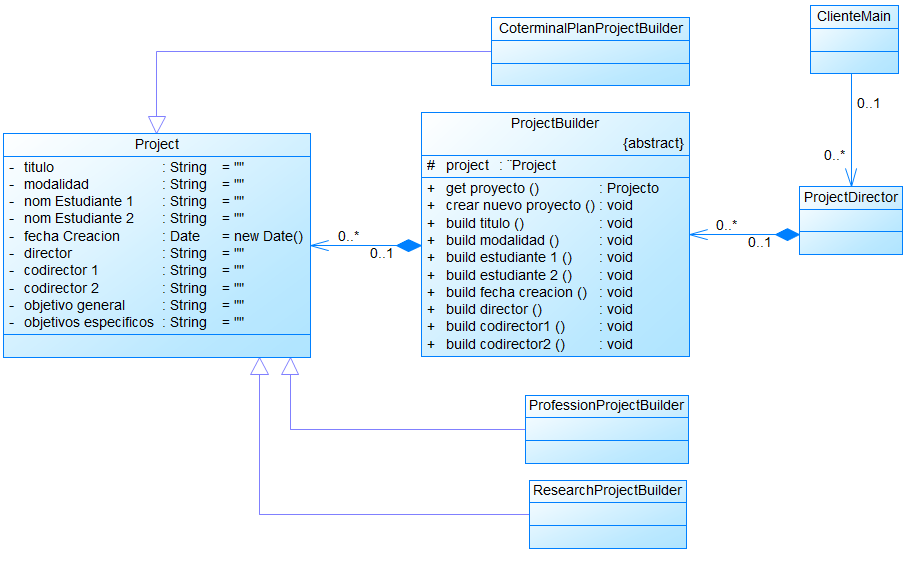
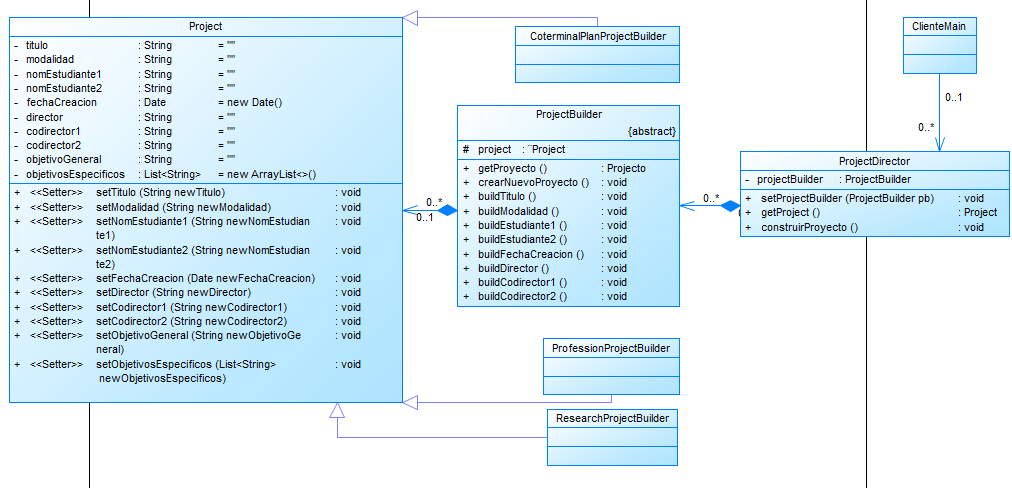
Se completo todas las funcionalidades,queda faltando solo las pruebas

diff --git a/CoterminalPlanProjectBuilder.java b/CoterminalPlanProjectBuilder.java
@@ -1,43 +1,44 @@
 /** ConcreteBuilder */
 import java.util.Date;
 class CoterminalPlanProjectBuilder extends ProjectBuilder{
-
     @Override
     public void buildTitulo() {
         project.setTitulo("Plan Coterminal en Inteligencia Artificial");
     }
+
     @Override
     public void buildModalidad() {
         project.setModalidad("Plan Coterminal");
     }
+
     @Override
     public void buildEstudiante1() {
         project.setNomEstudiante1("Estudiante D");
     }
+
     @Override
-    public void buildEstudiante2() {
-        // No aplica (solo un estudiante permitido)
-    }
+    public void buildEstudiante2() {}// No aplica (solo un estudiante permitido)
+
     @Override
     public void buildFechaCreacion() {
         project.setFechaCreacion(new Date());
     }
+
     @Override
     public void buildDirector() {
         project.setDirector("Dra. Ana Rodríguez");
     }
+
     @Override
-    public void buildCodirector1() {
-        // Opcional
-    }
+    public void buildCodirector1() {}// Opcional
     @Override
-    public void buildCodirector2() {
-        // Opcional
-    }
+    public void buildCodirector2() {}// Opcional
+
     @Override
     public void buildObjetivoGeneral() {
         project.setObjetivoGeneral("Fortalecer competencias avanzadas en Inteligencia Artificial.");
     }
+    
     @Override
     public void buildObjetivosEspecificos() {
         project.setObjetivosEspecificos("Estudiar algoritmos de Machine Learning");

diff --git a/ResearchProjectBuilder.java b/ResearchProjectBuilder.java
@@ -1,44 +1,49 @@
-import java.util.Date;
-
 /** ConcreteBuilder */
+import java.util.Date;
 class ResearchProjectBuilder extends ProjectBuilder{
-
     @Override
     public void buildTitulo() {
         project.setTitulo("Proyecto de Investigación en Sistemas");
     }
+
     @Override
     public void buildModalidad() {
         project.setModalidad("Investigación");
     }
+    
     @Override
     public void buildEstudiante1() {
         project.setNomEstudiante1("Estudiante A");
     }
+
     @Override
     public void buildEstudiante2() {
         project.setNomEstudiante2("Estudiante B"); // solo aplica en investigación
     }
+
     @Override
     public void buildFechaCreacion() {
         project.setFechaCreacion(new Date());
     }
+
     @Override
     public void buildDirector() {
         project.setDirector("Dr. Juan Pérez");
     }
+
     @Override
     public void buildCodirector1() {
         project.setCodirector1("Codirector 1 opcional");
     }
+
     @Override
-    public void buildCodirector2() {
-        // opcional, se puede dejar vacío
-    }
+    public void buildCodirector2() {}//opcional
+
     @Override
     public void buildObjetivoGeneral() {
         project.setObjetivoGeneral("Desarrollar un sistema para apoyar la investigación.");
     }
+
     @Override
     public void buildObjetivosEspecificos() {
         project.setObjetivosEspecificos("Analizar el problema");

diff --git a/ClienteMain.java b/ClienteMain.java
@@ -1,10 +1,26 @@
 public class ClienteMain {
     public static void main(String[] args){
         ProjectDirector projectDirector = new ProjectDirector();
+        //Proyecto de Investigación
         ProjectBuilder resProjectBuilder = new ResearchProjectBuilder();
         projectDirector.setProjectBuilder(resProjectBuilder);
         projectDirector.construirProyecto();
-
-        
+        Project researchProject = projectDirector.getProject();
+        System.out.println("=== Proyecto de Investigación ===");
+        System.out.println(researchProject);
+        //Proyecto de Práctica Profesional
+        ProjectBuilder profProjectBuilder = new ProfessionProjectBuilder();
+        projectDirector.setProjectBuilder(profProjectBuilder);
+        projectDirector.construirProyecto();
+        Project professionProject = projectDirector.getProject();
+        System.out.println("=== Proyecto de Práctica Profesional ===");
+        System.out.println(professionProject);
+        //Proyecto de Plan Coterminal
+        ProjectBuilder cotermProjectBuilder = new CoterminalPlanProjectBuilder();
+        projectDirector.setProjectBuilder(cotermProjectBuilder);
+        projectDirector.construirProyecto();
+        Project coterminalProject = projectDirector.getProject();
+        System.out.println("=== Proyecto Plan Coterminal ===");
+        System.out.println(coterminalProject);
     }
 }

diff --git a/ProjectDirector.java b/ProjectDirector.java
@@ -10,14 +10,15 @@ class ProjectDirector {
     }
 
     public void construirProyecto(){
+        projectBuilder.crearNuevoProyecto();
         projectBuilder.buildTitulo();
         projectBuilder.buildObjetivoGeneral();
         projectBuilder.buildObjetivosEspecificos();
-        projectBuilder.buildCodirector1();
-        projectBuilder.buildCodirector2();
-        projectBuilder.buildDirector();
+        projectBuilder.buildDirector();     // obligatorio
+        projectBuilder.buildCodirector1();  // opcional
+        projectBuilder.buildCodirector2();  // opcional
         projectBuilder.buildEstudiante1();
-        projectBuilder.buildEstudiante2();
+        projectBuilder.buildEstudiante2();  // puede ser opcional según modalidad
         projectBuilder.buildFechaCreacion();
         projectBuilder.buildModalidad();
     }

diff --git a/Project.java b/Project.java
@@ -3,7 +3,7 @@ import java.util.Date;
 import java.util.List;
 
 class Project {
-
+    //atributos
     private String titulo = "";
     private String modalidad = "";
     private String nomEstudiante1 = "";
@@ -14,7 +14,7 @@ class Project {
     private String codirector2 = "";
     private String objetivoGeneral = "";
     private List<String> objetivosEspecificos = new ArrayList<>();
-
+    //setters
     public void setTitulo(String titulo) {
         this.titulo = titulo;
     }
@@ -51,7 +51,7 @@ class Project {
         
     }
     @Override
-public String toString() {
+    public String toString() {
         return "Proyecto: " + titulo + "\n" +
                "Modalidad: " + modalidad + "\n" +
                "Estudiante 1: " + nomEstudiante1 + "\n" +

diff --git a/ProfessionProjectBuilder.java b/ProfessionProjectBuilder.java
@@ -17,9 +17,7 @@ class ProfessionProjectBuilder extends ProjectBuilder{
     }
 
     @Override
-    public void buildEstudiante2() {
-        // No aplica (solo un estudiante permitido)
-    }
+    public void buildEstudiante2() {}// No aplica (solo un estudiante permitido)
 
     @Override
     public void buildFechaCreacion() {
@@ -32,14 +30,10 @@ class ProfessionProjectBuilder extends ProjectBuilder{
     }
 
     @Override
-    public void buildCodirector1() {
-        // Opcional
-    }
+    public void buildCodirector1() {}// Opcional
 
     @Override
-    public void buildCodirector2() {
-        // Opcional
-    }
+    public void buildCodirector2() {}// Opcional
 
     @Override
     public void buildObjetivoGeneral() {

diff --git a/ProjectBuilder.java b/ProjectBuilder.java
@@ -20,5 +20,4 @@ abstract class ProjectBuilder {
    public abstract void buildCodirector2();
    public abstract void buildObjetivoGeneral();
    public abstract void buildObjetivosEspecificos();
-
 }
